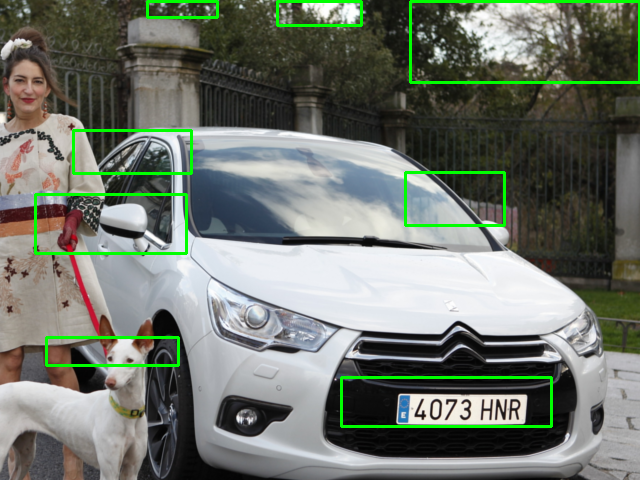
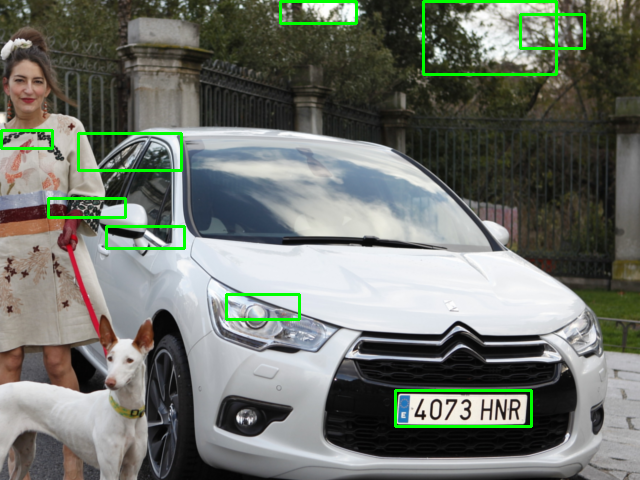
mas matriculas

diff --git a/Processing/matriculas/grad.py b/Processing/matriculas/grad.py
@@ -14,7 +14,7 @@ frame = cv2.imread(path)
 gray = cv2.cvtColor(frame, cv2.COLOR_BGR2GRAY)
 lap = cv2.Laplacian(gray, cv2.CV_64F)
 gray = np.double(gray)
-gray = cv2.addWeighted(gray, 1, lap, -0.7, 0)
+gray = cv2.addWeighted(gray, 1, lap, -1.25, 0)
 gray[gray < 0] = 0
 gray[gray > 255] = 255
 gray = np.uint8(gray)
@@ -34,7 +34,8 @@ aux[aux > 1] = 1
 gray = np.uint8((aux*0.5+0.5)*255)
 #_, gray = cv2.threshold(gray, 127, 255, cv2.THRESH_BINARY)
 #gray = cv2.Canny(gray, 127, 255)
-gray = cv2.Canny(gray, 75, 200)
+#gray = cv2.Canny(gray, 75, 200)
+gray = cv2.Canny(gray, 175, 200)
 
 # compute sobel
 sobel_x = cv2.Sobel(gray, cv2.CV_64F, 1, 0)
@@ -66,7 +67,7 @@ dens = np.uint8(dens*255)
 _, conts, _ = cv2.findContours(dens.copy(), cv2.RETR_LIST, cv2.CHAIN_APPROX_SIMPLE) 
 for cont in conts:
     x, y, w, h = cv2.boundingRect(cont)
-    if w > 300 or w < 64 or h > 100 or h < 16:
+    if w > 300 or w < 32 or h > 100 or h < 16:
         continue
     if  w/h > 1 and w/h < 8:
         cv2.rectangle(frame, (x, y), (x+w, y+h), (0, 255, 0), thickness=2)
